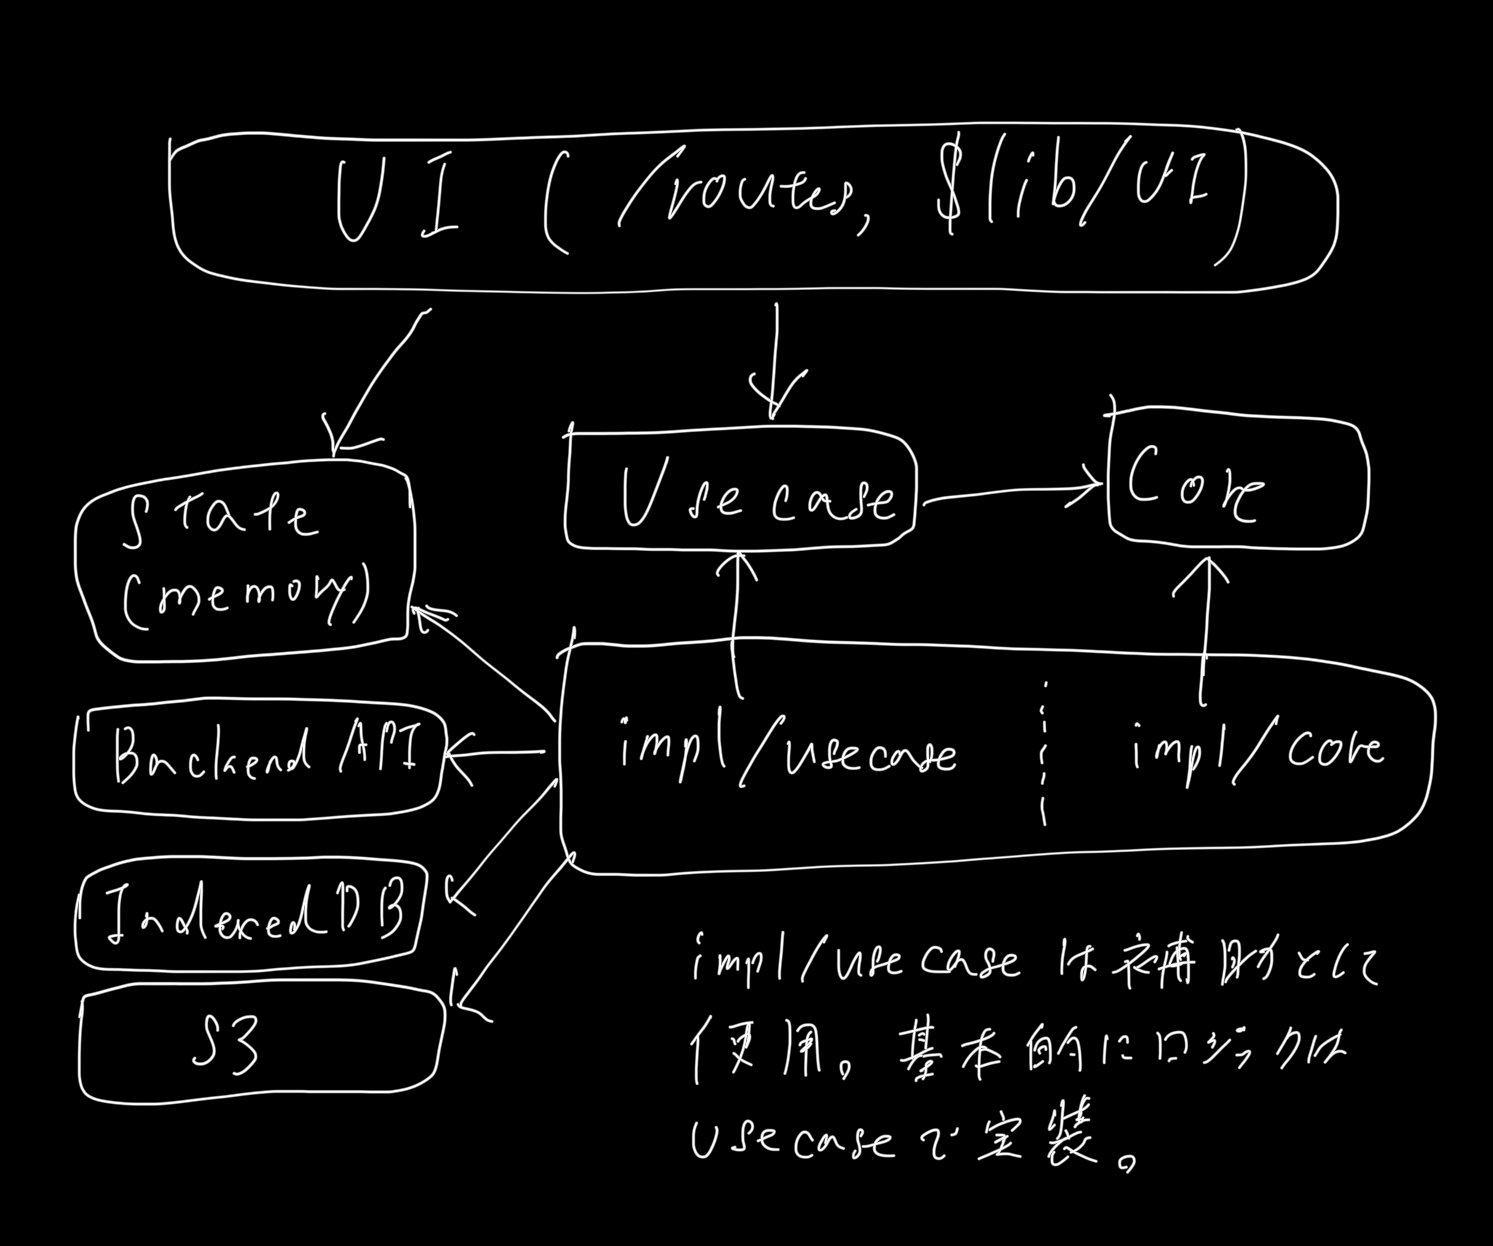
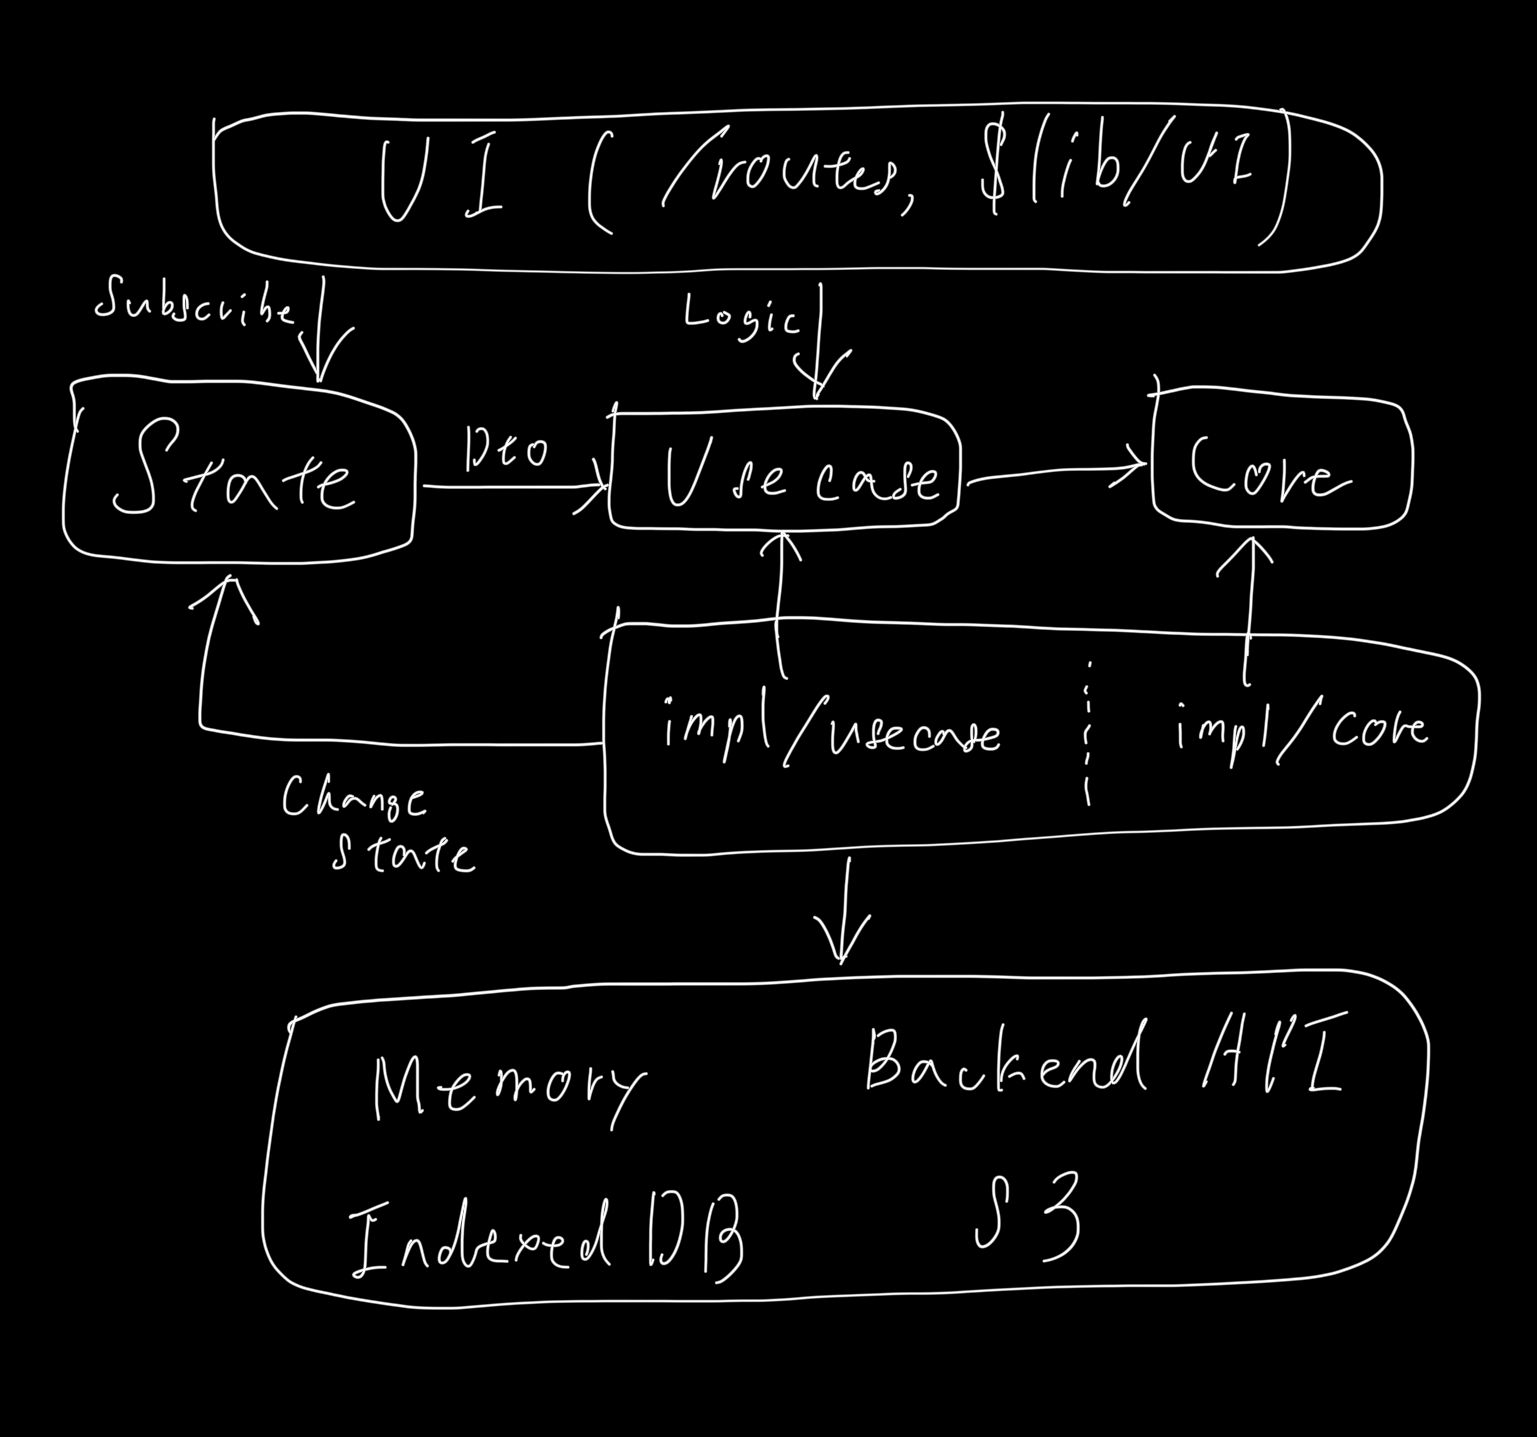
update README.md

diff --git a/README.md b/README.md
@@ -1,3 +1,6 @@
 # SvelteKit Clean Architecture
 
 ![Architecture](/static/architecture.png)
+
+`core`: domain, repository, service
+`usecase`: Business logic, Dto, interface of some complex logic (eg: inter-domain transaction, modification of state) implemented by `impl/usecase`.
